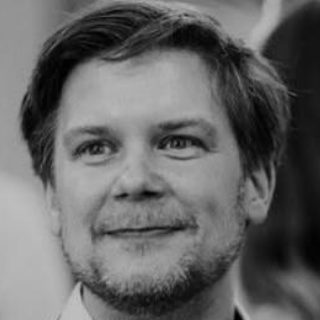
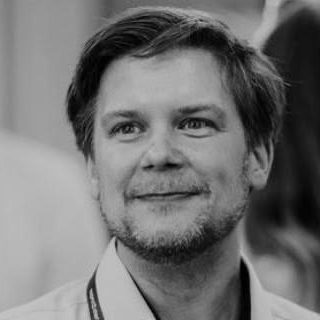
T-16: Foto weniger eng zugeschnitten (Wunsch des Inhabers)

diff --git a/docs/protokolle/2026-11-23-t-11-t-16-ueber-mich.md b/docs/protokolle/2026-11-23-t-11-t-16-ueber-mich.md
@@ -9,7 +9,7 @@
    - Name, Studium, Werdegang ohne Firmen, „Senior Consultant“ ohne Arbeitgeber
    - Arbeitsweise und Zertifikate
    - Link zum Repo
-3. **Foto:** Das Original zeigte am Hals ein Lanyard mit Aufdruck, vermutlich des Arbeitgebers. Der Ausschnitt zeigt nur das Gesicht (320 × 320 px). Er wurde mit dem Chromium von Playwright neu gerendert, damit keine Metadaten wie Kamera oder Ort übrig bleiben. Gespeichert als `public/bilder/christopher-menslage.jpg` (13 KB).
+3. **Foto:** Das Original zeigte am Hals ein Lanyard mit Aufdruck, vermutlich des Arbeitgebers. Der Ausschnitt (320 × 320 px) zeigt Kopf und Schultern; vom Lanyard ist nur der Ansatz ohne lesbare Schrift zu sehen (auf Wunsch des Inhabers weniger eng als der erste Ausschnitt). Er wurde mit dem Chromium von Playwright neu gerendert, damit keine Metadaten wie Kamera oder Ort übrig bleiben. Gespeichert als `public/bilder/christopher-menslage.jpg` (13 KB).
 4. **Test zuerst:** `e2e/about.spec.ts` prüft, dass das Foto sichtbar und höchstens 400 px groß ist, dass im Inhalt kein Platzhalter steht und dass es einen Link zum Repo gibt. Zuerst rot, dann grün.
 5. **Ergebnis:** E2E 79, Lighthouse, alle Checks und der Öffentlich-Scan mit Sperrliste sind grün. Der Name steht nicht auf der Sperrliste.
 6. **Freigabe:** Der Text ist freigegeben. Die Freigabe von Seite mit Foto steht noch aus.
